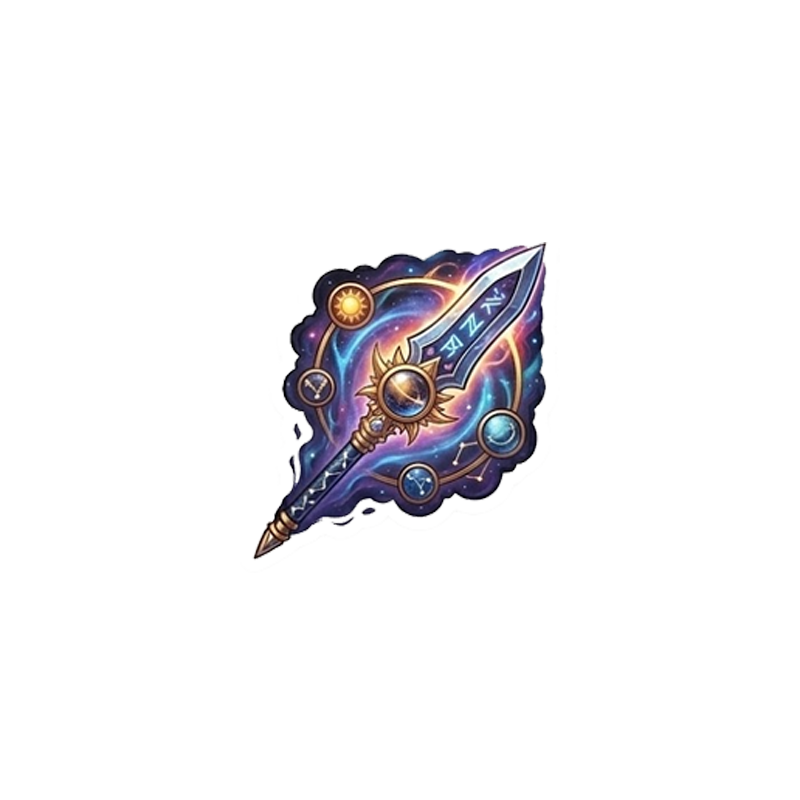
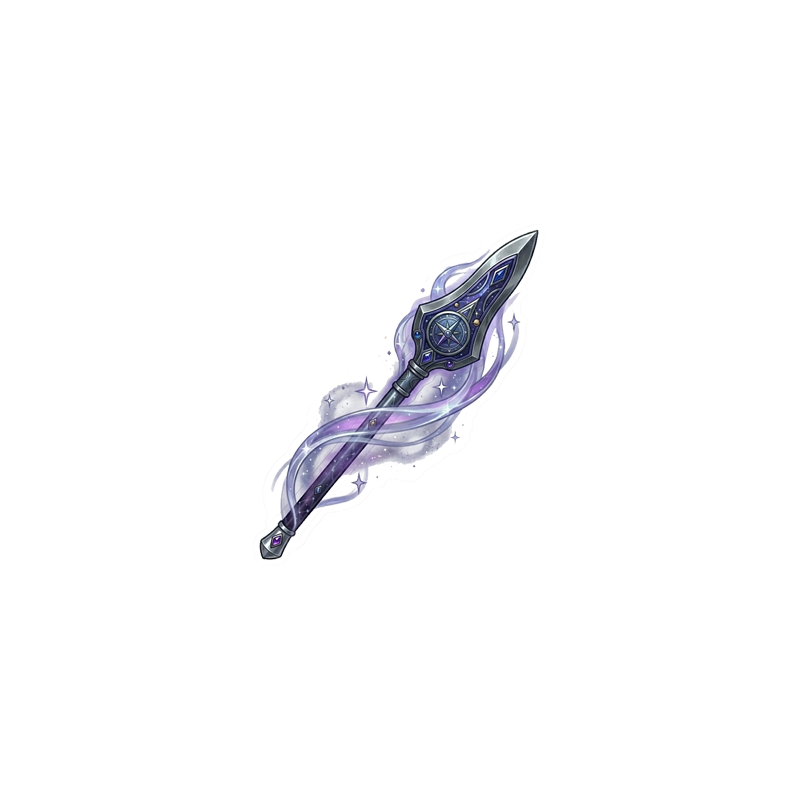
타이란트 아획 조정 / 황금광산 조정

Changed region(s): [[0.3125, 0.2812, 0.6875, 0.7188]]

diff --git a/rpgenius.js b/rpgenius.js
@@ -1488,7 +1488,18 @@ function formatFieldList(user) {
     const dungeons = getAccessibleDungeons(level);
     const userCP = calculateCombatPower(user).total;
     const lines = ['[ 입장 가능한 필드 목록 ]', '내 전투력: ⚔️ ' + comma(userCP), VIEWMORE];
-    dungeons.forEach(dungeon => {
+    const goldMineDungeons = dungeons.filter(dungeon => typeof dungeon.goldMineLevel != 'undefined');
+    const normalDungeons = dungeons.filter(dungeon => typeof dungeon.goldMineLevel == 'undefined');
+    if (goldMineDungeons.length > 0) {
+        lines.push('', '[ 황금 광산 ]');
+        goldMineDungeons.forEach(dungeon => {
+            const recCP = getDungeonRecommendedCP(dungeon);
+            lines.push('〈 ' + dungeon.name + ' 〉 ' + formatDungeonLevelRange(dungeon) + ' · ' + formatDungeonCPLine(userCP, recCP));
+        });
+    }
+
+    lines.push('', '[ 던전 ]');
+    normalDungeons.forEach(dungeon => {
         const recCP = getDungeonRecommendedCP(dungeon);
         lines.push('〈 ' + dungeon.name + ' 〉 ' + formatDungeonLevelRange(dungeon) + ' · ' + formatDungeonCPLine(userCP, recCP));
     });
@@ -2370,7 +2381,7 @@ function getEquippedEquipmentRefs(user) {
 function getAllUserEquipments(user) {
     const list = [];
     (user.inventory && Array.isArray(user.inventory.equipment) ? user.inventory.equipment : []).forEach((equip, index) => list.push({ source: 'inventory', index, equip }));
-    getEquippedEquipmentRefs(user).forEach(ref => list.push({ source: 'equipped', type: ref.type, equip: ref.equip }));
+    getEquippedEquipmentRefs(user).forEach(ref => list.push(Object.assign({ source: 'equipped' }, ref)));
     return list;
 }
 